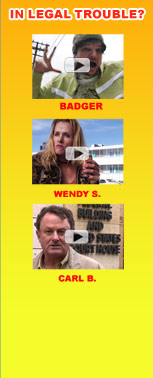
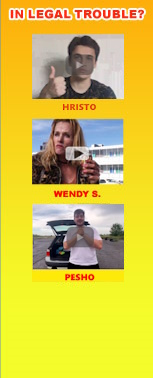
s

diff --git a/index.html b/index.html
@@ -3,11 +3,11 @@
 <head>
   <title>Better Call Valeri</title>
   <meta http-equiv="Content-Type" content="text/html; charset=UTF-8" />
-  <meta name="title" content="DUI? Dealing Drugs? Better Call Saul!" />
-  <meta name="description" content="DUI? Dealing Drugs? Better Call Saul!" />
-  <meta name="keywords" content="DUI? Dealing Drugs? Better Call Saul!" />
+  <meta name="title" content="Gragas? Bomba? Better Call Valeri!" />
+  <meta name="description" content="Gragas? Bomba? Better Call Valeri!" />
+  <meta name="keywords" content="Gragas? Bomba? Better Call Valeri!" />
   <link rel="stylesheet" type="text/css" href="style.css" />
-  <link href="http://www.bettercallsaul.com/media/images/facebookicon.png" rel="image_src" />
+  <link href="http://www.bettercallvaleri.com/media/images/facebookicon.png" rel="image_src" />
   <script async="" type="text/javascript" src="http://www.googletagservices.com/tag/js/gpt.js"></script>
   <script type="text/javascript" src="http://ajax.googleapis.com/ajax/libs/jquery/1.4.3/jquery.min.js"></script>
   <script type="text/javascript" src="media/js/cookie.js"></script>
@@ -23,12 +23,12 @@
     _dfp_config = {
       network_code: "3824",
       top_level_ad_unit: "AMCwww",
-      ad_unit_path: "\/3824\/AMCwww\/shows\/better_call_saul\/microsite",
+      ad_unit_path: "\/3824\/AMCwww\/shows\/better_call_valeri\/microsite",
       s1: "shows",
-      s2: "better_call_saul",
+      s2: "better_call_valeri",
       s3: "home",
       pid: "d54ae7d209232ef0dc2630487e930cd5",
-      show: "better call saul",
+      show: "better call valeri",
       ctype: "page",
       ad_test: "false",
       site: "www",
@@ -390,7 +390,7 @@
     </div>
     <div class="clear"></div>
     <div id="philantrhopic">
-      <a href="http://www.savewalterwhite.com/" target="_blank">CHECK OUT SAUL'S PHILANTHROPIC CAUSES</a>
+      <a href="http://www.savewalterwhite.com/" target="_blank">CHECK OUT VALERI'S PHILANTHROPIC CAUSES</a>
     </div>
     <div id="legal">
       <a href="http://www.amctv.com/contact" target="_blank">About &amp; Contact</a>&nbsp;&nbsp;&nbsp;&nbsp;&nbsp;

diff --git a/media/js/testimonialvideos.js b/media/js/testimonialvideos.js
@@ -1,13 +1,8 @@
 $(document).ready(function () {
 
-    //set source for all youtube links to be called later
-
-    var badgerlinkcontent = '<div><object width="640" height="385"><param name="movie" value="http://www.youtube.com/v/Db-RFNJDO3s&hl=en_US&fs=1&"></param><param name="allowFullScreen" value="true"></param><param name="allowscriptaccess" value="always"></param><embed src="http://www.youtube.com/v/Db-RFNJDO3s&hl=en_US&fs=1&" type="application/x-shockwave-flash" allowscriptaccess="always" allowfullscreen="true" width="640" height="385"></embed></object></div>';
+    var badgerlinkcontent = '<div><video width="640" height="385" controls><source src="/media/images/valerireklama.mp4" type="video/mp4"></video></div>';
     var wendylinkcontent = '<div><object width="640" height="385"><param name="movie" value="http://www.youtube.com/v/P-nhEHXQcTs&hl=en_US&fs=1&"></param><param name="allowFullScreen" value="true"></param><param name="allowscriptaccess" value="always"></param><embed src="http://www.youtube.com/v/P-nhEHXQcTs&hl=en_US&fs=1&" type="application/x-shockwave-flash" allowscriptaccess="always" allowfullscreen="true" width="640" height="385"></embed></object></div>';
-    var carllinkcontent = '<div><object width="640" height="385"><param name="movie" value="http://www.youtube.com/v/nDc-LNW8z18&hl=en_US&fs=1&"></param><param name="allowFullScreen" value="true"></param><param name="allowscriptaccess" value="always"></param><embed src="http://www.youtube.com/v/nDc-LNW8z18&hl=en_US&fs=1&" type="application/x-shockwave-flash" allowscriptaccess="always" allowfullscreen="true" width="640" height="385"></embed></object></div>';
-
-
-    //handle click functionality on video thumbs			
+    var carllinkcontent = '<div><video width="640" height="385" controls><source src="/media/images/pesho.mp4" type="video/mp4"></video></div>';
 
     $("#videocontentmodule div").click(function () {
 

diff --git a/testimonials.html b/testimonials.html
@@ -3,9 +3,9 @@
 <head>
   <title>Better Call Valeri Testimonials</title>
   <meta http-equiv="Content-Type" content="text/html; charset=UTF-8" />
-  <meta name="title" content="DUI? Dealing Drugs? Better Call Valeri!" />
-  <meta name="description" content="DUI? Dealing Drugs? Better Call Valeri!" />
-  <meta name="keywords" content="DUI? Dealing Drugs? Better Call Valeri!" />
+  <meta name="title" content="Gragas? Bomba? Better Call Valeri!" />
+  <meta name="description" content="Gragas? Bomba? Better Call Valeri!" />
+  <meta name="keywords" content="Gragas? Bomba? Better Call Valeri!" />
   <link href="style.css" rel="stylesheet" type="text/css" />
   <link href="http://www.bettercallvaleri.com/media/images/facebookicon.png" rel="image_src" />
   <script type="text/javascript" src="http://ajax.googleapis.com/ajax/libs/jquery/1.4.3/jquery.min.js"></script>
@@ -69,7 +69,7 @@
         <div id="carl"></div>
         <div id="wendy"></div>
         <div id="badger"></div>
-        <img src="media/images/testimonialselector.jpg" alt="Click to watch a consultation video" />
+        <img src="media/images/testimonialselector.png" alt="Click to watch a consultation video" />
       </div>
       <div id="rightcontentmodule">
         <div id="rightcoltemp">

diff --git a/livewebcam.html b/livewebcam.html
@@ -3,9 +3,9 @@
 <head>
     <title>Better Call Valeri Live Office Webcam</title>
     <meta http-equiv="Content-Type" content="text/html; charset=UTF-8" />
-    <meta name="title" content="DUI? Dealing Drugs? Better Call Valeri!" />
-    <meta name="description" content="DUI? Dealing Drugs? Better Call Valeri!" />
-    <meta name="keywords" content="DUI? Dealing Drugs? Better Call Valeri!" />
+    <meta name="title" content="Gragas? Bomba? Better Call Valeri!" />
+    <meta name="description" content="Gragas? Bomba? Better Call Valeri!" />
+    <meta name="keywords" content="Gragas? Bomba? Better Call Valeri!" />
     <link href="style.css" rel="stylesheet" type="text/css" />
     <link href="http://www.bettercallvaleri.com/media/images/facebookicon.png" rel="image_src" />
     <script type="text/javascript" src="http://ajax.googleapis.com/ajax/libs/jquery/1.4.3/jquery.min.js"></script>

diff --git a/dresslikevaleri.html b/dresslikevaleri.html
@@ -3,9 +3,9 @@
 <head>
     <title>Dress Like Valeri !</title>
     <meta http-equiv="Content-Type" content="text/html; charset=UTF-8" />
-    <meta name="title" content="DUI? Dealing Drugs? Better Call Valeri!" />
-    <meta name="description" content="DUI? Dealing Drugs? Better Call Valeri!" />
-    <meta name="keywords" content="DUI? Dealing Drugs? Better Call Valeri!" />
+    <meta name="title" content="Gragas? Bomba? Better Call Valeri!" />
+    <meta name="description" content="Gragas? Bomba? Better Call Valeri!" />
+    <meta name="keywords" content="Gragas? Bomba? Better Call Valeri!" />
     <link href="style.css" rel="stylesheet" type="text/css" />
     <link href="http://www.bettercallvaleri.com/media/images/facebookicon.png" rel="image_src" />
     <script type="text/javascript" src="http://ajax.googleapis.com/ajax/libs/jquery/1.4.3/jquery.min.js"></script>

diff --git a/asseenontv.html b/asseenontv.html
@@ -3,9 +3,9 @@
 <head>
 	<title>Better Call Valeri as seen on TV!</title>
 	<meta http-equiv="Content-Type" content="text/html; charset=UTF-8" />
-	<meta name="title" content="DUI? Dealing Drugs? Better Call Valeri!" />
-	<meta name="description" content="DUI? Dealing Drugs? Better Call Valeri!" />
-	<meta name="keywords" content="DUI? Dealing Drugs? Better Call Valeri!" />
+	<meta name="title" content="Gragas? Bomba? Better Call Valeri!" />
+	<meta name="description" content="Gragas? Bomba? Better Call Valeri!" />
+	<meta name="keywords" content="Gragas? Bomba? Better Call Valeri!" />
 	<link href="style.css" rel="stylesheet" type="text/css" />
 	<link href="http://www.bettercallvaleri.com/media/images/facebookicon.png" rel="image_src" />
 	<script type="text/javascript" src="http://ajax.googleapis.com/ajax/libs/jquery/1.4.3/jquery.min.js"></script>

diff --git a/ecards.html b/ecards.html
@@ -4,9 +4,9 @@
     <head>
         <title>Better Call Valeri E-Cards</title>
         <meta http-equiv="Content-Type" content="text/html; charset=UTF-8" />
-		<meta name="title" content="DUI? Dealing Drugs? Better Call Valeri!" />
+		<meta name="title" content="Gragas? Bomba? Better Call Valeri!" />
         <meta name="description" content="Better Call Valeri - Send your friends an E-card" />
-		<meta name="keywords" content="DUI? Dealing Drugs? Better Call Valeri!" />
+		<meta name="keywords" content="Gragas? Bomba? Better Call Valeri!" />
 		<link href="style.css" rel="stylesheet" type="text/css" />		
 		
 		<script type="text/javascript" src="http://ajax.googleapis.com/ajax/libs/jquery/1.4.3/jquery.min.js"></script>

diff --git a/mail.html b/mail.html
@@ -3,9 +3,9 @@
 <head>
     <title>Thank you! Your E-card is on its way!</title>
     <meta http-equiv="Content-Type" content="text/html; charset=UTF-8" />
-    <meta name="title" content="DUI? Dealing Drugs? Better Call Valeri!" />
-    <meta name="description" content="DUI? Dealing Drugs? Better Call Valeri!" />
-    <meta name="keywords" content="DUI? Dealing Drugs? Better Call Valeri!" />
+    <meta name="title" content="Gragas? Bomba? Better Call Valeri!" />
+    <meta name="description" content="Gragas? Bomba? Better Call Valeri!" />
+    <meta name="keywords" content="Gragas? Bomba? Better Call Valeri!" />
     <link href="style.css" rel="stylesheet" type="text/css" />
 </head>
 <body>
